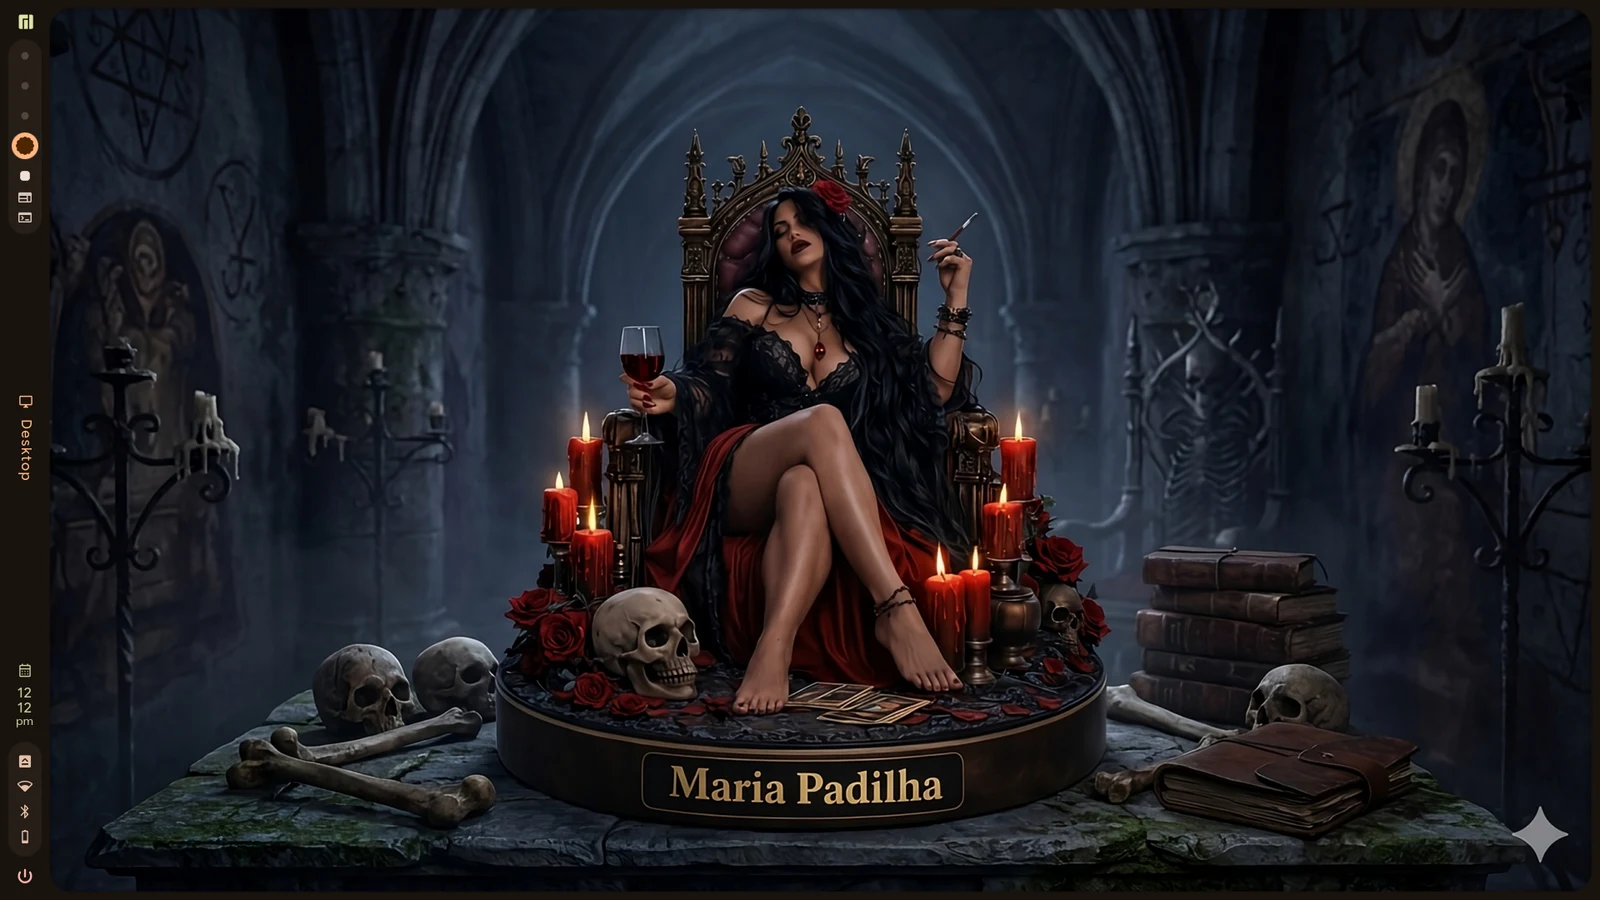
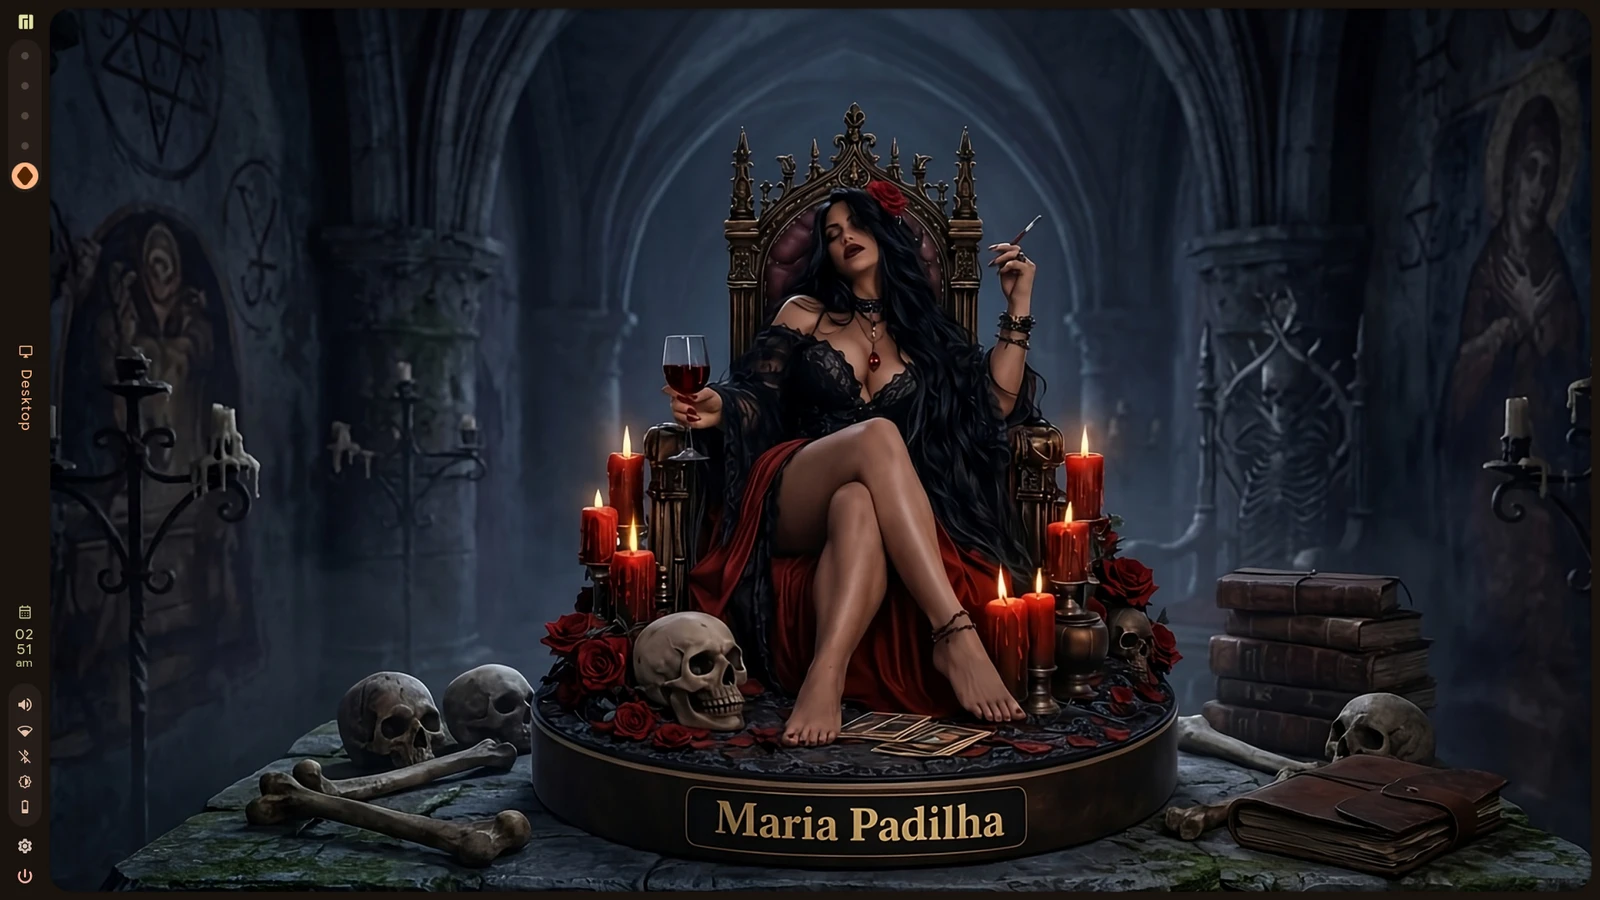
Refresh the night screenshot and add a security policy

diff --git a/SECURITY.md b/SECURITY.md
@@ -1,0 +1,12 @@
+# Security policy
+
+These are configuration files, not a daemon, but they are loaded by Hyprland,
+Neovim, WezTerm, Firefox, micro, and Midnight Commander. Report a vulnerability
+privately through this repository's **Security → Report a vulnerability** page.
+
+Do not commit `hypr/hyprland/env.local.lua`; it is ignored and is where local API
+keys belong. If a secret was committed, rotate it first and then open a private
+report.
+
+The desktop application's policy is in
+[maria-padilha-de/SECURITY.md](https://github.com/maria-padilha-os/maria-padilha-de/blob/main/SECURITY.md).
